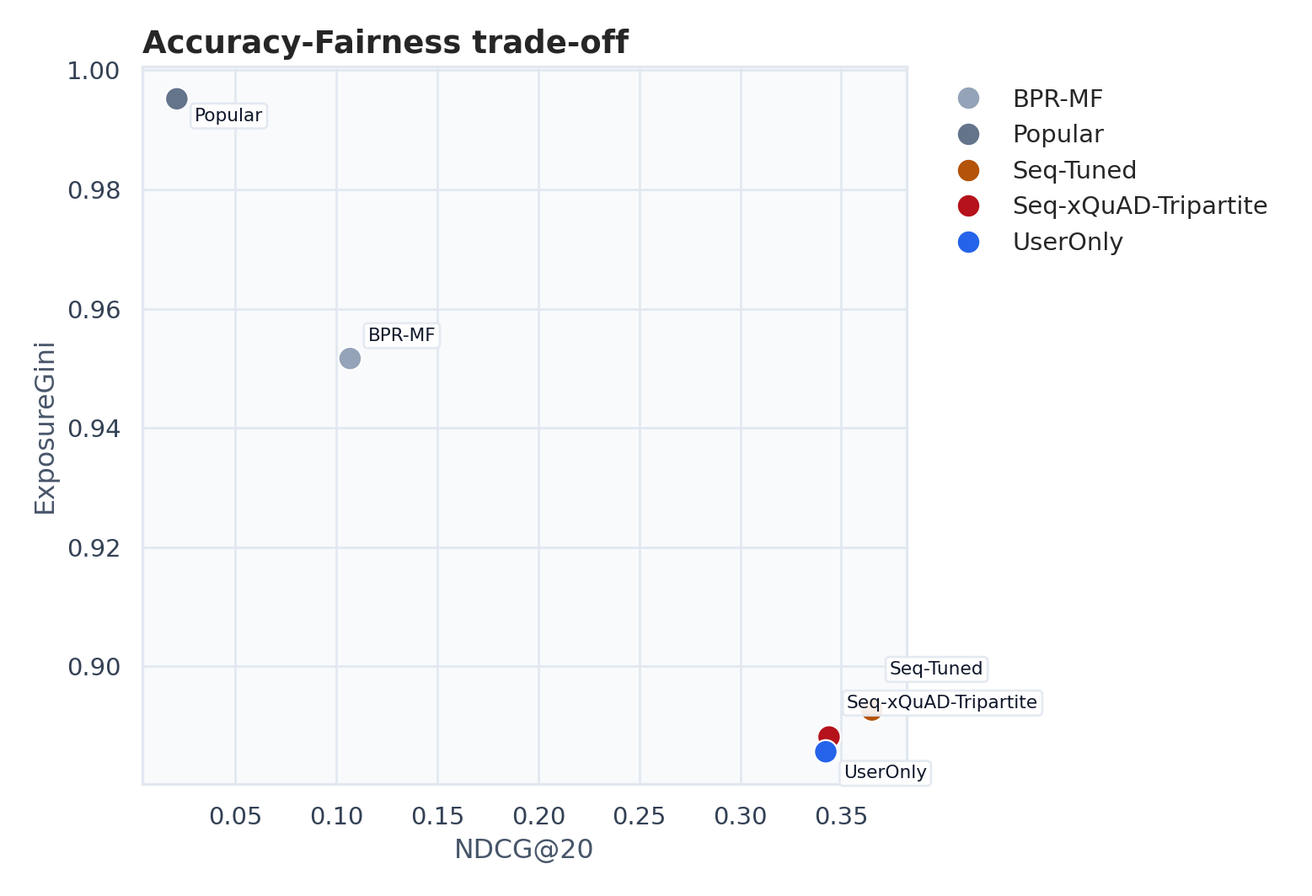
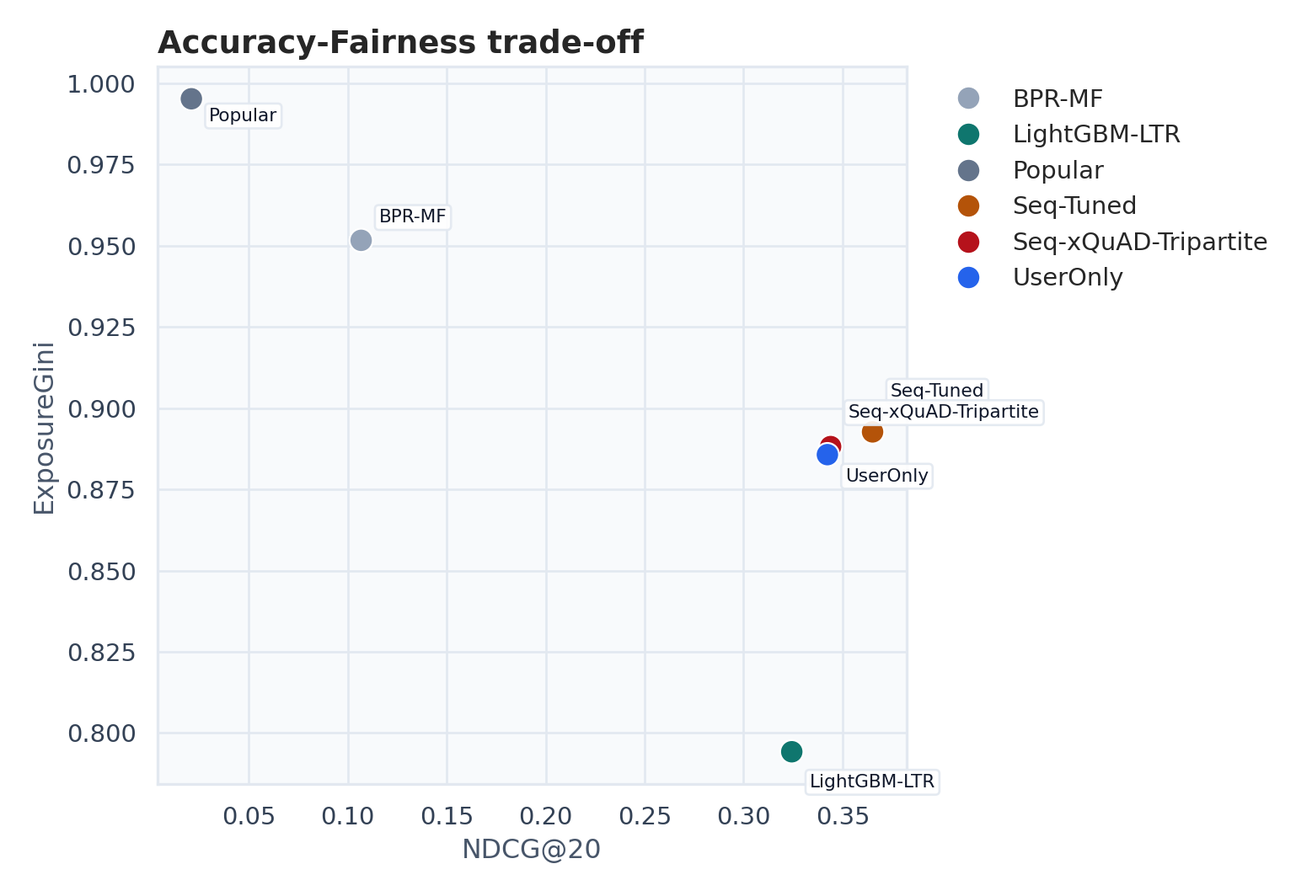
修改实验报告和生成实验报告逻辑，修改图片生成逻辑，增加其新增的指标，提交新增的方法得到的图片和json结果（无删减）

diff --git a/foodflow/report.py b/foodflow/report.py
@@ -21,22 +21,22 @@ def _data_mode_text(data_note_path: Path, data_audit_path: Path | None = None) -
     note = json.loads(data_note_path.read_text(encoding="utf-8"))
     if note.get("mode") == "mock":
         return (
-            "当前表格由 `make smoke` 的 mock TRD-like 数据生成，用于验证工程闭环。"
-            "正式提交前运行 `make download preprocess eval simulate figures report`，即可用真实 TRD txt 文件刷新结果。"
+            "当前表格由 mock TRD-like 数据生成，用于验证工程闭环。"
+            "正式实验请运行 `make download preprocess-full eval simulate figures report`。"
         )
     if data_audit_path and data_audit_path.exists():
         audit = json.loads(data_audit_path.read_text(encoding="utf-8"))
         if audit.get("train_mode") == "full":
             return (
                 "当前表格由真实 TRD txt 文件生成，训练集使用完整 `orders_train.txt`。"
-                f"审计记录显示原始训练订单 {audit.get('raw_train_orders')} 条，处理后训练订单 "
-                f"{audit.get('processed_train_orders')} 条。"
+                f"审计记录显示原始训练订单 {audit.get('raw_train_orders')} 条，"
+                f"处理后训练订单 {audit.get('processed_train_orders')} 条。"
             )
         return (
             "当前表格由真实 TRD txt 文件生成，但训练集采用固定 seed 抽样以保证 CPU 可运行。"
-            f"审计记录显示原始训练订单 {audit.get('raw_train_orders')} 条，处理后训练订单 "
-            f"{audit.get('processed_train_orders')} 条，训练订单使用比例 "
-            f"{float(audit.get('train_sample_fraction', 0.0)):.4f}。"
+            f"审计记录显示原始训练订单 {audit.get('raw_train_orders')} 条，"
+            f"处理后训练订单 {audit.get('processed_train_orders')} 条，"
+            f"训练订单使用比例 {float(audit.get('train_sample_fraction', 0.0)):.4f}。"
         )
     sample_orders = note.get("sample_orders")
     if sample_orders in {None, 0, "0"}:
@@ -49,7 +49,7 @@ def _data_mode_text(data_note_path: Path, data_audit_path: Path | None = None) -
 
 def _data_audit_summary(path: Path) -> str:
     if not path.exists():
-        return "_尚未生成数据审计文件。运行 `make audit` 可生成 `outputs/results/data_audit.json` 和 `docs/DATA_AUDIT.md`。_"
+        return "_尚未生成数据审计文件。运行 `make audit` 可生成审计结果。_"
     audit = json.loads(path.read_text(encoding="utf-8"))
     rows = [
         ("必需 TRD 文件齐全", audit.get("required_raw_files_present")),
@@ -60,6 +60,13 @@ def _data_audit_summary(path: Path) -> str:
         ("骑手数据边界", "合成 proxy，非真实派单记录"),
     ]
     return pd.DataFrame(rows, columns=["项目", "值"]).to_markdown(index=False)
+
+
+def _figure_links(figures_dir: Path) -> str:
+    if not figures_dir.exists():
+        return "_尚未生成图表。_"
+    lines = [f"![{fig.stem}](../outputs/figures/{fig.name})" for fig in sorted(figures_dir.glob("*.png"))]
+    return "\n\n".join(lines) if lines else "_尚未生成图表。_"
 
 
 def build_report(
@@ -74,25 +81,21 @@ def build_report(
     simulation_table = _markdown_table(results_dir / "simulation_metrics.csv")
     data_mode = _data_mode_text(data_note_path, data_audit_path)
     data_audit = _data_audit_summary(data_audit_path)
-    figure_lines = []
-    if figures_dir.exists():
-        for fig in sorted(figures_dir.glob("*.png")):
-            figure_lines.append(f"![{fig.stem}](../outputs/figures/{fig.name})")
-    figures_md = "\n\n".join(figure_lines) if figure_lines else "_尚未生成图表。_"
+    figures_md = _figure_links(figures_dir)
 
-    text = f"""# FoodFlow：融合公平重排与履约仿真的外卖三方推荐系统
+    text = f"""# FoodFlow：融合学习排序、公平重排与履约仿真的外卖推荐系统
 
 ## 1. 项目目标
 
-本项目面向外卖平台推荐，围绕用户、商家、骑手三方利益构建一个可运行的课程大作业原型。系统先用真实外卖订单数据评估用户-商家 Top-K 推荐，再把推荐结果转化为模拟订单，进入骑手匹配与高峰期履约仿真，最终用推荐指标和系统级指标共同评价策略。
+FoodFlow 面向外卖平台推荐场景，先用真实外卖订单数据评估用户-商家 Top-K 推荐，再把推荐结果转化为模拟订单，进入骑手匹配与高峰期履约仿真。项目同时观察推荐准确性、商家曝光公平、ETA、超时率、骑手负载和平台综合效用。
 
-核心观点是：外卖推荐不能只追求 Recall 或 NDCG。一个推荐列表如果把用户推向远距离、高拥堵、骑手供给不足的商家，平台体验可能变差。因此 FoodFlow 使用三方重排，在用户偏好之外引入商家公平、ETA 和骑手负载。
+核心观点是：外卖推荐不能只追求 Recall 或 NDCG。一个推荐列表如果把用户推向远距离、高拥堵、骑手供给不足的商家，平台体验可能变差。因此 FoodFlow 在用户偏好之外引入商家公平、ETA、供给约束和骑手负载。
 
 ## 2. 数据来源
 
 主数据集为 Takeout Recommendation Dataset (TRD)，Zenodo DOI：`10.5281/zenodo.8025855`。数据来自美团外卖北京 11 个商圈，时间范围为 2021-03-01 至 2021-03-28，包含用户、餐厅、菜品、训练订单、测试订单和测试标签。
 
-本项目默认下载 TRD 的 txt 文件，不下载约 1.8GB 的 `graph.bin`，因为核心实现不依赖 DGL 图。骑手位置、在线状态、负载和收入为合成仿真数据，生成规则固定 seed，并在实验中仅作为履约约束 proxy，不声称为真实骑手数据。
+项目默认下载 TRD 的 txt 文件，不下载约 1.8GB 的 `graph.bin`，因为核心实现不依赖 DGL 图。骑手位置、在线状态、负载和收入为合成仿真数据，生成规则固定 seed，并在实验中仅作为履约约束 proxy，不声称为真实骑手数据。
 
 {data_mode}
 
@@ -102,25 +105,25 @@ def build_report(
 
 ## 3. 方法设计
 
-默认实验只保留 5 个代表策略：Popular、BPR-MF、UserOnly、Seq-Tuned 和 Seq-xQuAD-Tripartite。Popular 是基础热度对照；BPR-MF 是传统隐式反馈排序基线；UserOnly 使用品类、复购、价格、时段和商家质量；Seq-Tuned 借鉴 FPMC/下一篮子推荐和会话推荐思想，在同一组可解释序列特征上增强复购和商家转移信号，用作离线准确率前沿；Seq-xQuAD-Tripartite 把列表级覆盖、商家公平、ETA 和供给约束接到同一个重排器，用来回答三方推荐是否真的改善履约。
+默认离线实验保留 5 个代表模型：Popular、BPR-MF、UserOnly、LightGBM-LTR 和 Seq-xQuAD-Tripartite。
 
-项目代码中仍保留若干历史消融类，便于追溯实验过程；但默认结果和 demo 不再铺开所有候选，答辩主线聚焦为：基础对照 -> 传统排序 -> 用户画像 -> 高准确序列推荐 -> 三方履约重排。
+Popular 是全局热度对照；BPR-MF 是传统隐式反馈矩阵分解；UserOnly 使用品类、复购、价格、时段和商家质量构造可解释画像分；LightGBM-LTR 复用 Seq-Tuned 的 recency、repeat、transition、category、popularity、quality 等特征，但用 LightGBM LambdaRank 学习排序函数，替代手动硬编码的 `SEQ_TUNED_WEIGHTS`；Seq-xQuAD-Tripartite 把列表级覆盖、商家公平、ETA 和供给约束接到同一个重排器，用来评估三方推荐是否改善履约。
 
-三方仿真保留 4 条代表链路：Popular + Nearest、UserOnly + MinETA、Seq-Tuned + MinETA 和 Seq-xQuAD-Tripartite。每轮模拟午餐高峰的一批用户请求，推荐列表经过选择模型产生订单，再由最近骑手、最小 ETA 或负载感知策略派单。
+`Seq-Tuned` 仍保留为可解释规则基线和 LightGBM 不可用时的 fallback，但不再把硬编码权重作为唯一的高准确序列主线。
+
+仿真保留 6 条代表链路：Popular + Nearest、UserOnly + MinETA、Seq-Tuned + MinETA、LightGBM-LTR + MinETA、Seq-xQuAD-Tripartite 和 Seq-xQuAD-Tripartite-Batch。每轮模拟午餐高峰的一批用户请求，推荐列表经过选择模型产生订单，再由最近骑手、最小 ETA、负载感知或批量最大权匹配策略派单。同一推荐器下不同派单策略使用相同请求流、选择噪声和初始骑手池，以减少随机场景差异对对照结果的影响。
 
 ## 4. 离线推荐结果
 
 {offline_table}
 
-推荐侧指标使用 Recall@K、NDCG@K、MRR@K 和 HitRate@K；商家侧指标使用 Coverage、Long-tail Exposure 和 Exposure Gini；校准侧指标使用 CategoryJSD@20，衡量推荐列表品类分布与用户历史品类分布的 Jensen-Shannon divergence，数值越低越贴近用户习惯。这样既能看推荐是否命中真实下单，也能看曝光是否过度集中，以及列表是否偏离用户长期品类偏好。全量 TRD 结果中，Seq-Tuned 通常代表离线准确率前沿，说明外卖推荐强烈受复购序列和商家转移影响；Seq-xQuAD-Tripartite 的离线准确性低于纯用户侧序列模型，但它把商家曝光和履约约束纳入同一条链路，需要结合仿真指标判断系统级收益。
+推荐侧指标使用 Recall@K、NDCG@K、MRR@K 和 HitRate@K；商家侧指标使用 Coverage、Long-tail Exposure 和 Exposure Gini；校准侧指标使用 CategoryJSD@20。LightGBM-LTR 的意义在于从历史交互中学习特征组合和非线性排序函数，减少固定权重在数据分布变化时失效的风险。
 
 ## 5. 动态履约仿真结果
 
 {simulation_table}
 
-履约侧指标包括完成订单数、平均 ETA、超时率、骑手负载标准差和平台综合效用。多目标推荐的目标不是所有单项指标都最大，而是在准确性、公平性和履约可行性之间取得更适合外卖平台的折中。全量 TRD 仿真中，Seq-Tuned 提升了离线推荐准确性，但进入派单后平台效用仍要与 ETA、超时率和骑手负载一起判断；Seq-xQuAD-Tripartite 展示了把列表级重排与三方履约约束结合的系统级价值。
-
-为避免只展示单点权重，图表中额外生成 `pareto_recall_utility.png` 和 `tripartite_frontier.csv`，把 Recall@20、Exposure Gini、平均 ETA、超时率和平台效用合并为非支配前沿视角。答辩时可以用这张图说明：Seq-Tuned 代表离线准确率前沿，Seq-xQuAD-Tripartite 代表系统效用前沿，它们共同构成三方推荐的权衡边界。
+履约侧指标包括完成订单数、平均 ETA、P95 ETA、超时率、骑手负载标准差、活跃骑手比例、骑手收入 Gini 和平台综合效用。LightGBM-LTR + MinETA 用来检验学习排序模型进入派单链路后的履约表现；Seq-xQuAD-Tripartite 则进一步把三方约束和列表多样性接入推荐阶段；Seq-xQuAD-Tripartite-Batch 把同一时间步内订单和骑手剩余容量槽位构造成二分图，用最大权匹配减少逐单贪心导致的局部最优。
 
 ## 6. 图表展示
 
@@ -128,9 +131,9 @@ def build_report(
 
 ## 7. 结论与局限
 
-FoodFlow 的答辩故事可以概括为三步：第一，公开外卖订单数据上的推荐实验证明模型不是随机的，并用 Seq-Tuned 把离线排序指标继续推高；第二，显式加入商家曝光、长尾曝光、品类校准和 Gini 指标，让推荐不再只围绕用户命中率讨论；第三，Seq-xQuAD-Tripartite 和负载感知派单能降低 ETA、超时风险并提升平台效用，从而体现多主体平台的系统级优化。
+FoodFlow 的答辩故事可以概括为三步：第一，公开外卖订单数据上的推荐实验说明模型不是随机的；第二，引入 LightGBM-LTR，让序列特征权重从历史交互中学习，而不是只依赖手动调参；第三，将推荐结果接入骑手履约仿真，并用批量二分图匹配对照逐单贪心，比较准确性、公平性、ETA、超时率和平台效用之间的权衡。
 
-局限是骑手数据来自合成仿真，不能替代工业级派单数据；BPR-MF 是轻量实现，未追求大规模深度模型最优性能；平台效用权重是课程项目中的解释性设置，需要结合业务偏好做敏感性分析。
+局限是骑手数据来自合成仿真，不能替代工业级派单数据；LightGBM-LTR 当前仍使用项目构造的候选集和特征，训练标签来自历史下单集合，后续可以进一步加入更丰富的上下文、真实曝光/点击标签和跨城市验证。
 """
     output.write_text(text, encoding="utf-8")
     return output

diff --git a/foodflow/figures.py b/foodflow/figures.py
@@ -15,6 +15,7 @@ HIGHLIGHT = {
     "BPR-MF": "#94A3B8",
     "UserOnly": "#2563EB",
     "Seq-Tuned": "#B45309",
+    "LightGBM-LTR": "#0F766E",
     "Seq-xQuAD-Tripartite": "#B5121B",
 }
 DEFAULT_COLOR = "#CBD5E1"
@@ -35,6 +36,7 @@ def _annotate_highlights(ax, df: pd.DataFrame, x: str, y: str, label_col: str) -
         "BPR-MF": (8, 8),
         "UserOnly": (8, -12),
         "Seq-Tuned": (8, 16),
+        "LightGBM-LTR": (8, -16),
         "Seq-xQuAD-Tripartite": (8, 13),
     }
     for _, row in df.iterrows():
@@ -161,7 +163,9 @@ def _save_frontier_plot(frontier: pd.DataFrame, path: Path) -> None:
         "Popular + Nearest": (8, -14),
         "UserOnly + MinETA": (8, -14),
         "Seq-Tuned + MinETA": (8, 16),
+        "LightGBM-LTR + MinETA": (8, -16),
         "Seq-xQuAD-Tripartite": (8, 12),
+        "Seq-xQuAD-Tripartite-Batch": (8, -18),
     }
     for _, row in plot_df.iterrows():
         label = str(row["policy"])
@@ -278,8 +282,11 @@ def generate_figures(results_dir: Path, figures_dir: Path) -> list[Path]:
         sim = pd.read_csv(sim_path)
         for metric, filename, title in [
             ("avg_eta", "simulation_avg_eta.png", "Average delivery ETA"),
+            ("p95_eta", "simulation_p95_eta.png", "P95 delivery ETA"),
             ("timeout_rate", "simulation_timeout_rate.png", "Timeout rate"),
             ("rider_load_std", "simulation_rider_load_std.png", "Rider load standard deviation"),
+            ("active_rider_rate", "simulation_active_rider_rate.png", "Active rider rate"),
+            ("rider_income_gini", "simulation_rider_income_gini.png", "Rider income Gini"),
             ("platform_utility", "simulation_platform_utility.png", "Platform utility"),
             ("merchant_exposure_gini", "simulation_exposure_gini.png", "Simulation merchant exposure Gini"),
         ]:
@@ -291,7 +298,7 @@ def generate_figures(results_dir: Path, figures_dir: Path) -> list[Path]:
                     metric,
                     title,
                     out,
-                    higher_better=metric in {"platform_utility"},
+                    higher_better=metric in {"platform_utility", "active_rider_rate"},
                 )
                 made.append(out)
         if {"avg_eta", "platform_utility", "completed_orders"}.issubset(sim.columns):

diff --git a/foodflow/frontier.py b/foodflow/frontier.py
@@ -7,7 +7,9 @@ POLICY_MODEL_MAP = {
     "Popular + Nearest": "Popular",
     "UserOnly + MinETA": "UserOnly",
     "Seq-Tuned + MinETA": "Seq-Tuned",
+    "LightGBM-LTR + MinETA": "LightGBM-LTR",
     "Seq-xQuAD-Tripartite": "Seq-xQuAD-Tripartite",
+    "Seq-xQuAD-Tripartite-Batch": "Seq-xQuAD-Tripartite",
 }
 
 

diff --git a/report/实验报告.md b/report/实验报告.md
@@ -1,16 +1,16 @@
-# FoodFlow：融合公平重排与履约仿真的外卖三方推荐系统
+# FoodFlow：融合学习排序、公平重排与履约仿真的外卖推荐系统
 
 ## 1. 项目目标
 
-本项目面向外卖平台推荐，围绕用户、商家、骑手三方利益构建一个可运行的课程大作业原型。系统先用真实外卖订单数据评估用户-商家 Top-K 推荐，再把推荐结果转化为模拟订单，进入骑手匹配与高峰期履约仿真，最终用推荐指标和系统级指标共同评价策略。
+FoodFlow 面向外卖平台推荐场景，先用真实外卖订单数据评估用户-商家 Top-K 推荐，再把推荐结果转化为模拟订单，进入骑手匹配与高峰期履约仿真。项目同时观察推荐准确性、商家曝光公平、ETA、超时率、骑手负载和平台综合效用。
 
-核心观点是：外卖推荐不能只追求 Recall 或 NDCG。一个推荐列表如果把用户推向远距离、高拥堵、骑手供给不足的商家，平台体验可能变差。因此 FoodFlow 使用三方重排，在用户偏好之外引入商家公平、ETA 和骑手负载。
+核心观点是：外卖推荐不能只追求 Recall 或 NDCG。一个推荐列表如果把用户推向远距离、高拥堵、骑手供给不足的商家，平台体验可能变差。因此 FoodFlow 在用户偏好之外引入商家公平、ETA、供给约束和骑手负载。
 
 ## 2. 数据来源
 
 主数据集为 Takeout Recommendation Dataset (TRD)，Zenodo DOI：`10.5281/zenodo.8025855`。数据来自美团外卖北京 11 个商圈，时间范围为 2021-03-01 至 2021-03-28，包含用户、餐厅、菜品、训练订单、测试订单和测试标签。
 
-本项目默认下载 TRD 的 txt 文件，不下载约 1.8GB 的 `graph.bin`，因为核心实现不依赖 DGL 图。骑手位置、在线状态、负载和收入为合成仿真数据，生成规则固定 seed，并在实验中仅作为履约约束 proxy，不声称为真实骑手数据。
+项目默认下载 TRD 的 txt 文件，不下载约 1.8GB 的 `graph.bin`，因为核心实现不依赖 DGL 图。骑手位置、在线状态、负载和收入为合成仿真数据，生成规则固定 seed，并在实验中仅作为履约约束 proxy，不声称为真实骑手数据。
 
 当前表格由真实 TRD txt 文件生成，训练集使用完整 `orders_train.txt`。审计记录显示原始训练订单 1068495 条，处理后训练订单 1068495 条。
 
@@ -27,36 +27,39 @@
 
 ## 3. 方法设计
 
-默认实验只保留 5 个代表策略：Popular、BPR-MF、UserOnly、Seq-Tuned 和 Seq-xQuAD-Tripartite。Popular 是基础热度对照；BPR-MF 是传统隐式反馈排序基线；UserOnly 使用品类、复购、价格、时段和商家质量；Seq-Tuned 借鉴 FPMC/下一篮子推荐和会话推荐思想，在同一组可解释序列特征上增强复购和商家转移信号，用作离线准确率前沿；Seq-xQuAD-Tripartite 把列表级覆盖、商家公平、ETA 和供给约束接到同一个重排器，用来回答三方推荐是否真的改善履约。
+默认离线实验保留 5 个代表模型：Popular、BPR-MF、UserOnly、LightGBM-LTR 和 Seq-xQuAD-Tripartite。
 
-项目代码中仍保留若干历史消融类，便于追溯实验过程；但默认结果和 demo 不再铺开所有候选，答辩主线聚焦为：基础对照 -> 传统排序 -> 用户画像 -> 高准确序列推荐 -> 三方履约重排。
+Popular 是全局热度对照；BPR-MF 是传统隐式反馈矩阵分解；UserOnly 使用品类、复购、价格、时段和商家质量构造可解释画像分；LightGBM-LTR 复用 Seq-Tuned 的 recency、repeat、transition、category、popularity、quality 等特征，但用 LightGBM LambdaRank 学习排序函数，替代手动硬编码的 `SEQ_TUNED_WEIGHTS`；Seq-xQuAD-Tripartite 把列表级覆盖、商家公平、ETA 和供给约束接到同一个重排器，用来评估三方推荐是否改善履约。
 
-三方仿真保留 4 条代表链路：Popular + Nearest、UserOnly + MinETA、Seq-Tuned + MinETA 和 Seq-xQuAD-Tripartite。每轮模拟午餐高峰的一批用户请求，推荐列表经过选择模型产生订单，再由最近骑手、最小 ETA 或负载感知策略派单。
+`Seq-Tuned` 仍保留为可解释规则基线和 LightGBM 不可用时的 fallback，但不再把硬编码权重作为唯一的高准确序列主线。
+
+仿真保留 6 条代表链路：Popular + Nearest、UserOnly + MinETA、Seq-Tuned + MinETA、LightGBM-LTR + MinETA、Seq-xQuAD-Tripartite 和 Seq-xQuAD-Tripartite-Batch。每轮模拟午餐高峰的一批用户请求，推荐列表经过选择模型产生订单，再由最近骑手、最小 ETA、负载感知或批量最大权匹配策略派单。同一推荐器下不同派单策略使用相同请求流、选择噪声和初始骑手池，以减少随机场景差异对对照结果的影响。
 
 ## 4. 离线推荐结果
 
 | model                |   Recall@10 |   NDCG@10 |   MRR@10 |   HitRate@10 |   Recall@20 |   NDCG@20 |   MRR@20 |   HitRate@20 |   Coverage@20 |   ExposureGini |   LongTailExposure@20 |   CategoryJSD@20 |
 |:---------------------|------------:|----------:|---------:|-------------:|------------:|----------:|---------:|-------------:|--------------:|---------------:|----------------------:|-----------------:|
 | BPR-MF               |      0.1269 |    0.0968 |   0.1108 |       0.1967 |      0.162  |    0.1068 |   0.1141 |       0.2433 |        0.135  |         0.9516 |                0.0592 |           0.0575 |
+| LightGBM-LTR         |      0.4142 |    0.3148 |   0.3366 |       0.5733 |      0.4424 |    0.3243 |   0.3378 |       0.59   |        0.4345 |         0.7942 |                0.5513 |           0.0279 |
 | Popular              |      0.0219 |    0.0135 |   0.018  |       0.0467 |      0.047  |    0.021  |   0.0209 |       0.09   |        0.0062 |         0.9952 |                0      |           0.0581 |
 | Seq-Tuned            |      0.4187 |    0.3504 |   0.392  |       0.58   |      0.4675 |    0.3652 |   0.3948 |       0.6267 |        0.2884 |         0.8927 |                0.4371 |           0.0152 |
 | Seq-xQuAD-Tripartite |      0.3964 |    0.3372 |   0.3828 |       0.5567 |      0.418  |    0.344  |   0.3839 |       0.5733 |        0.2847 |         0.8882 |                0.4266 |           0.0158 |
 | UserOnly             |      0.3988 |    0.3336 |   0.373  |       0.5467 |      0.4287 |    0.3423 |   0.3747 |       0.5733 |        0.2841 |         0.8857 |                0.4242 |           0.0156 |
 
-推荐侧指标使用 Recall@K、NDCG@K、MRR@K 和 HitRate@K；商家侧指标使用 Coverage、Long-tail Exposure 和 Exposure Gini；校准侧指标使用 CategoryJSD@20，衡量推荐列表品类分布与用户历史品类分布的 Jensen-Shannon divergence，数值越低越贴近用户习惯。这样既能看推荐是否命中真实下单，也能看曝光是否过度集中，以及列表是否偏离用户长期品类偏好。全量 TRD 结果中，Seq-Tuned 通常代表离线准确率前沿，说明外卖推荐强烈受复购序列和商家转移影响；Seq-xQuAD-Tripartite 的离线准确性低于纯用户侧序列模型，但它把商家曝光和履约约束纳入同一条链路，需要结合仿真指标判断系统级收益。
+推荐侧指标使用 Recall@K、NDCG@K、MRR@K 和 HitRate@K；商家侧指标使用 Coverage、Long-tail Exposure 和 Exposure Gini；校准侧指标使用 CategoryJSD@20。LightGBM-LTR 的意义在于从历史交互中学习特征组合和非线性排序函数，减少固定权重在数据分布变化时失效的风险。
 
 ## 5. 动态履约仿真结果
 
-| policy               |   completed_orders |   total_orders |   completion_rate |   avg_eta |   timeout_rate |   on_time_rate |   rider_load_std |   rider_load_cv |   merchant_exposure_gini |   user_satisfaction |   platform_utility |
-|:---------------------|-------------------:|---------------:|------------------:|----------:|---------------:|---------------:|-----------------:|----------------:|-------------------------:|--------------------:|-------------------:|
-| Popular + Nearest    |                 62 |             62 |                 1 |   84.708  |         0.7903 |         0.2097 |           1.0487 |          1      |                   0.9997 |              0.4944 |             0.3365 |
-| UserOnly + MinETA    |                 97 |             97 |                 1 |   55.3332 |         0.6701 |         0.3299 |           0.662  |          0.819  |                   0.99   |              0.8582 |             0.4831 |
-| Seq-Tuned + MinETA   |                 97 |             97 |                 1 |   54.7422 |         0.732  |         0.268  |           0.6363 |          0.7872 |                   0.9897 |              0.8526 |             0.4664 |
-| Seq-xQuAD-Tripartite |                 94 |             94 |                 1 |   50.3348 |         0.5319 |         0.4681 |           0.608  |          0.7762 |                   0.9892 |              0.8479 |             0.5264 |
+| policy                     |   completed_orders |   total_orders |   completion_rate |   avg_eta |   p95_eta |   timeout_rate |   on_time_rate |   avg_rider_load |   rider_load_std |   rider_load_cv |   active_rider_rate |   rider_income_gini |   merchant_exposure_gini |   user_satisfaction |   platform_utility |
+|:---------------------------|-------------------:|---------------:|------------------:|----------:|----------:|---------------:|---------------:|-----------------:|-----------------:|----------------:|--------------------:|--------------------:|-------------------------:|--------------------:|-------------------:|
+| Popular + Nearest          |                 55 |             55 |                 1 |   59.5689 |  120.058  |         0.5818 |         0.4182 |           0.4833 |           0.8935 |          1      |              0.2583 |              0.8229 |                   0.9997 |              0.48   |             0.3955 |
+| UserOnly + MinETA          |                 87 |             87 |                 1 |   47.9229 |   72.2641 |         0.5517 |         0.4483 |           0.7583 |           0.645  |          0.8897 |              0.6167 |              0.4831 |                   0.9908 |              0.804  |             0.4979 |
+| Seq-Tuned + MinETA         |                 95 |             95 |                 1 |   46.7114 |   66.1899 |         0.5158 |         0.4842 |           0.8167 |           0.6442 |          0.8137 |              0.6667 |              0.4356 |                   0.9893 |              0.7916 |             0.5134 |
+| LightGBM-LTR + MinETA      |                 89 |             89 |                 1 |   48.9295 |   73.537  |         0.573  |         0.427  |           0.7583 |           0.677  |          0.9127 |              0.6083 |              0.4939 |                   0.9866 |              0.7713 |             0.4817 |
+| Seq-xQuAD-Tripartite       |                 80 |             80 |                 1 |   42.2201 |   63.6804 |         0.35   |         0.65   |           0.6167 |           0.6101 |          0.9152 |              0.5917 |              0.4805 |                   0.9894 |              0.8281 |             0.5621 |
+| Seq-xQuAD-Tripartite-Batch |                 80 |             80 |                 1 |   41.6688 |   60.3933 |         0.3625 |         0.6375 |           0.6333 |           0.6749 |          1      |              0.5583 |              0.5303 |                   0.9894 |              0.8281 |             0.5499 |
 
-履约侧指标包括完成订单数、平均 ETA、超时率、骑手负载标准差和平台综合效用。多目标推荐的目标不是所有单项指标都最大，而是在准确性、公平性和履约可行性之间取得更适合外卖平台的折中。全量 TRD 仿真中，Seq-Tuned 提升了离线推荐准确性，但进入派单后平台效用仍要与 ETA、超时率和骑手负载一起判断；Seq-xQuAD-Tripartite 展示了把列表级重排与三方履约约束结合的系统级价值。
-
-为避免只展示单点权重，图表中额外生成 `pareto_recall_utility.png` 和 `tripartite_frontier.csv`，把 Recall@20、Exposure Gini、平均 ETA、超时率和平台效用合并为非支配前沿视角。答辩时可以用这张图说明：Seq-Tuned 代表离线准确率前沿，Seq-xQuAD-Tripartite 代表系统效用前沿，它们共同构成三方推荐的权衡边界。
+履约侧指标包括完成订单数、平均 ETA、P95 ETA、超时率、骑手负载标准差、活跃骑手比例、骑手收入 Gini 和平台综合效用。LightGBM-LTR + MinETA 用来检验学习排序模型进入派单链路后的履约表现；Seq-xQuAD-Tripartite 则进一步把三方约束和列表多样性接入推荐阶段；Seq-xQuAD-Tripartite-Batch 把同一时间步内订单和骑手剩余容量槽位构造成二分图，用最大权匹配减少逐单贪心导致的局部最优。
 
 ## 6. 图表展示
 
@@ -72,11 +75,17 @@
 
 ![pareto_recall_utility](../outputs/figures/pareto_recall_utility.png)
 
+![simulation_active_rider_rate](../outputs/figures/simulation_active_rider_rate.png)
+
 ![simulation_avg_eta](../outputs/figures/simulation_avg_eta.png)
 
 ![simulation_exposure_gini](../outputs/figures/simulation_exposure_gini.png)
 
+![simulation_p95_eta](../outputs/figures/simulation_p95_eta.png)
+
 ![simulation_platform_utility](../outputs/figures/simulation_platform_utility.png)
+
+![simulation_rider_income_gini](../outputs/figures/simulation_rider_income_gini.png)
 
 ![simulation_rider_load_std](../outputs/figures/simulation_rider_load_std.png)
 
@@ -92,6 +101,6 @@
 
 ## 7. 结论与局限
 
-FoodFlow 的答辩故事可以概括为三步：第一，公开外卖订单数据上的推荐实验证明模型不是随机的，并用 Seq-Tuned 把离线排序指标继续推高；第二，显式加入商家曝光、长尾曝光、品类校准和 Gini 指标，让推荐不再只围绕用户命中率讨论；第三，Seq-xQuAD-Tripartite 和负载感知派单能降低 ETA、超时风险并提升平台效用，从而体现多主体平台的系统级优化。
+FoodFlow 的答辩故事可以概括为三步：第一，公开外卖订单数据上的推荐实验说明模型不是随机的；第二，引入 LightGBM-LTR，让序列特征权重从历史交互中学习，而不是只依赖手动调参；第三，将推荐结果接入骑手履约仿真，并用批量二分图匹配对照逐单贪心，比较准确性、公平性、ETA、超时率和平台效用之间的权衡。
 
-局限是骑手数据来自合成仿真，不能替代工业级派单数据；BPR-MF 是轻量实现，未追求大规模深度模型最优性能；平台效用权重是课程项目中的解释性设置，需要结合业务偏好做敏感性分析。
+局限是骑手数据来自合成仿真，不能替代工业级派单数据；LightGBM-LTR 当前仍使用项目构造的候选集和特征，训练标签来自历史下单集合，后续可以进一步加入更丰富的上下文、真实曝光/点击标签和跨城市验证。

diff --git a/docs/RECOMMENDER_FORMULAS.md b/docs/RECOMMENDER_FORMULAS.md
@@ -99,7 +99,7 @@ quality(m)=\frac{s_m-s_{\min}}{s_{\max}-s_{\min}}
 poplarity_{norm}(m)=\frac{o_m-o_{\min}}{o_{\max}-o_{\min}}
 ```
 
-则有 
+则有
 
 ```math
 novelty(m)=1-poplarity_{norm}(m)
@@ -216,7 +216,7 @@ metric    = ndcg
 Rec(u,K)=TopK_m\left(\hat{s}_{u,m}\right)
 ```
 
-当前默认训练配置：
+当前默认训练配置：（训练时间较长可修改，但性能也会下降）
 
 ```text
 n_estimators      = 80
@@ -297,9 +297,49 @@ UserOnly + MinETA
 Seq-Tuned + MinETA
 LightGBM-LTR + MinETA
 Seq-xQuAD-Tripartite
+Seq-xQuAD-Tripartite-Batch
 ```
 
 其中 `LightGBM-LTR + MinETA` 用来测试学习排序模型进入履约链路后的表现：推荐列表先由 LightGBM-LTR 生成，再用最小 ETA 策略派单。
+`Seq-xQuAD-Tripartite-Batch` 将同一时间步内产生的一批订单和在线骑手容量槽位构造成二分图，用最大权匹配替代逐单贪心，减少局部最优派单。仿真中请求用户流、选择噪声和初始骑手池使用固定 seed；同一推荐器下不同派单策略面对同一批订单，因此可以更公平地比较 `load_aware` 与 `batch_max_weight`。
+
+骑手侧不再只使用静态距离最近规则。合成骑手包含 `speed_kmh`、`service_radius_km`、`acceptance_rate`、`reliability`、`load` 和 `available_at` 等状态。单个订单的骑手分为：
+
+```math
+score_{rider}(o,r)=
+0.50\left(1-\min\left(\frac{ETA(o,r)}{80},1\right)\right)
++0.20\,rel_r
++0.15\frac{1}{1+load_r}
++0.15\,P(accept\mid o,r)
+```
+
+接单概率用骑手基础接单率、可靠性、服务半径、负载和 ETA 衰减构造：
+
+```math
+\begin{aligned}
+P(accept\mid o,r)=\operatorname{clip}(&accept_r\cdot rel_r
+\cdot e^{-\max(d_{pickup}+d_{delivery}-radius_r,0)/3}\\
+&\cdot \frac{1}{1+0.35\,load_r}
+\cdot \left(1-\min\left(\frac{\max(ETA(o,r)-35,0)}{80},0.75\right)\right),0.02,0.99)
+\end{aligned}
+```
+
+批量派单将订单集合 `O` 和骑手容量槽位集合 `S` 构造成二分图。一个骑手 `r` 会按剩余容量展开为 `max_load-load_r` 个槽位，槽位上的有效负载随槽位序号递增，用来近似排队接单的额外压力。边权为骑手分减去超时风险：
+
+```math
+W_{os}=score_{rider}(o,r(s))-0.20\min\left(\max\left(\frac{ETA(o,r(s))-45}{60},0\right),1\right)
+```
+
+最大权匹配目标为：
+
+```math
+\max_x \sum_{o\in O}\sum_{s\in S}W_{os}x_{os}
+\quad
+s.t.\quad
+\sum_{s\in S}x_{os}\le 1,\quad
+\sum_{o\in O}x_{os}\le 1,\quad
+x_{os}\in\{0,1\}
+```
 
 ## 9. 数据与仿真边界
 
@@ -325,10 +365,18 @@ lat\sim\mathcal{N}(39.92,0.035)
 ```math
 \begin{aligned}
 ETA=&wait+prep+peak
-+\frac{dist(rider,merchant)}{20}\times60\\
-&+\frac{dist(merchant,user)}{22}\times60
++\frac{dist(rider,merchant)}{speed_r}\times60\\
+&+\frac{dist(merchant,user)}{1.08\,speed_r}\times60
 +5\cdot load
 \end{aligned}
 ```
 
-这些仿真变量用于比较推荐策略对履约时间、超时率、骑手负载和平台效用的影响，不声明为真实骑手数据。
+这些仿真变量用于比较推荐策略对履约时间、超时率、骑手负载、骑手收入分布、活跃骑手比例和平台效用的影响，不声明为真实骑手数据。
+
+由于公开数据集中没有真实配送轨迹和配送时长，因此采用启发式 ETA 估计模型，仅用于构造履约约束和比较不同推荐策略下的相对表现，而非追求 ETA 的绝对预测精度。
+
+## 10.骑手数据仿真
+
+
+* [ ] TODO：可以增加ETA `estimate_user_merchant_eta` 中对配送速度等估计值进行扰动，衡量模型敏感性
+* [ ] TODO：骑手模拟时貌似没有到商家取餐的计算？
